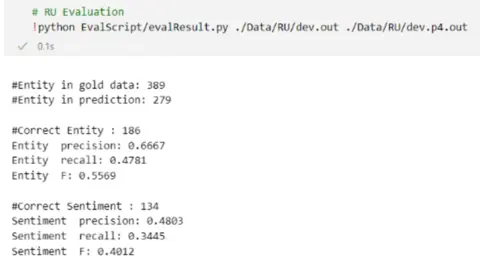
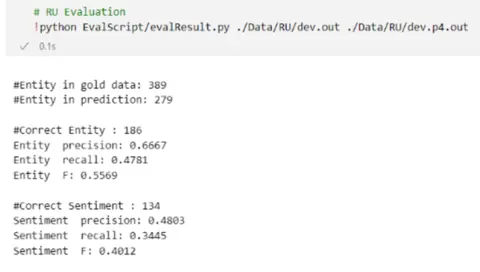
Deploying to gh-pages from @ SausageMuffins/SausageMuffins.github.io@4a786251ab74b99de65e791fb197caf9d8eb062b 🚀

diff --git a/projects/Sentiment_and_Entity_Identification/index.html b/projects/Sentiment_and_Entity_Identification/index.html
@@ -345,13 +345,13 @@ hyperparameters (if any) with the objective of achieving a robust system. We con
 
   <picture>
     
-    <source class="responsive-img-srcset" media="(max-width: 480px)" srcset="/assets/img/RU_4-480.webp"></source>
-    <source class="responsive-img-srcset" media="(max-width: 800px)" srcset="/assets/img/RU_4-800.webp"></source>
-    <source class="responsive-img-srcset" media="(max-width: 1400px)" srcset="/assets/img/RU_4-1400.webp"></source>
+    <source class="responsive-img-srcset" media="(max-width: 480px)" srcset="/assets/img/RU_4.PNG-480.webp"></source>
+    <source class="responsive-img-srcset" media="(max-width: 800px)" srcset="/assets/img/RU_4.PNG-800.webp"></source>
+    <source class="responsive-img-srcset" media="(max-width: 1400px)" srcset="/assets/img/RU_4.PNG-1400.webp"></source>
     
 
     <!-- Fallback to the original file -->
-    <img src="/assets/img/RU_4.png" class="img-fluid rounded z-depth-1" width="auto" height="auto" title="Training Result" onerror="this.onerror=null; $('.responsive-img-srcset').remove();">
+    <img src="/assets/img/RU_4.PNG" class="img-fluid rounded z-depth-1" width="auto" height="auto" title="Training Result" onerror="this.onerror=null; $('.responsive-img-srcset').remove();">
 
   </picture>
 
